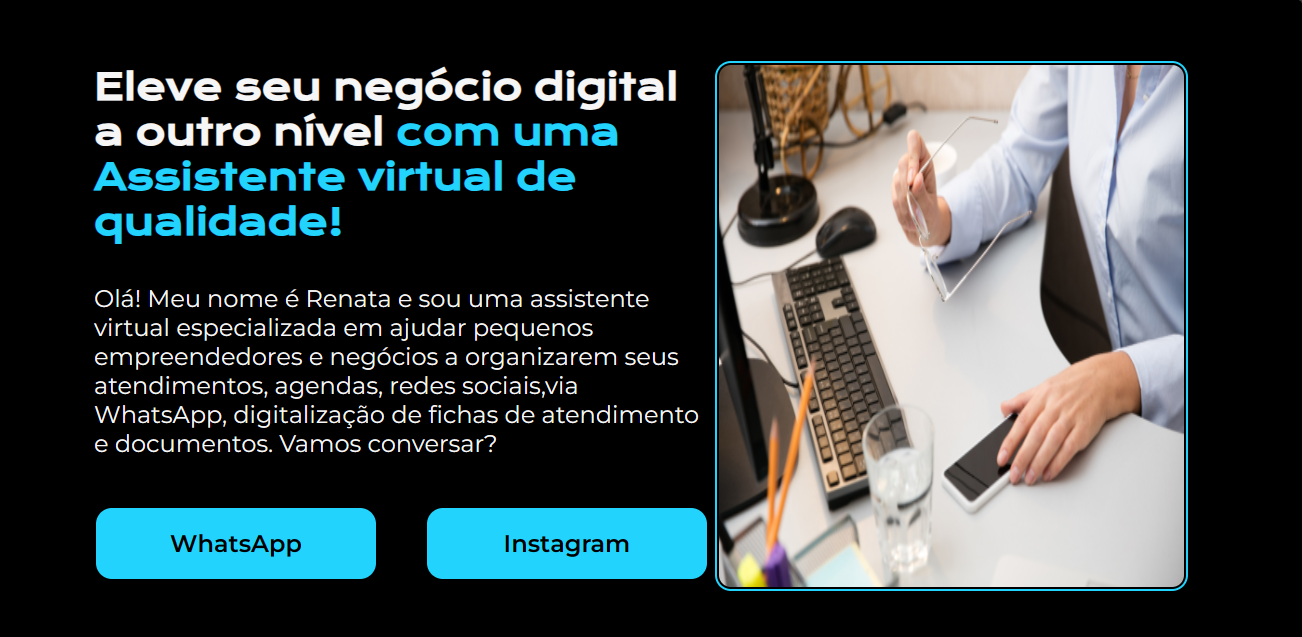
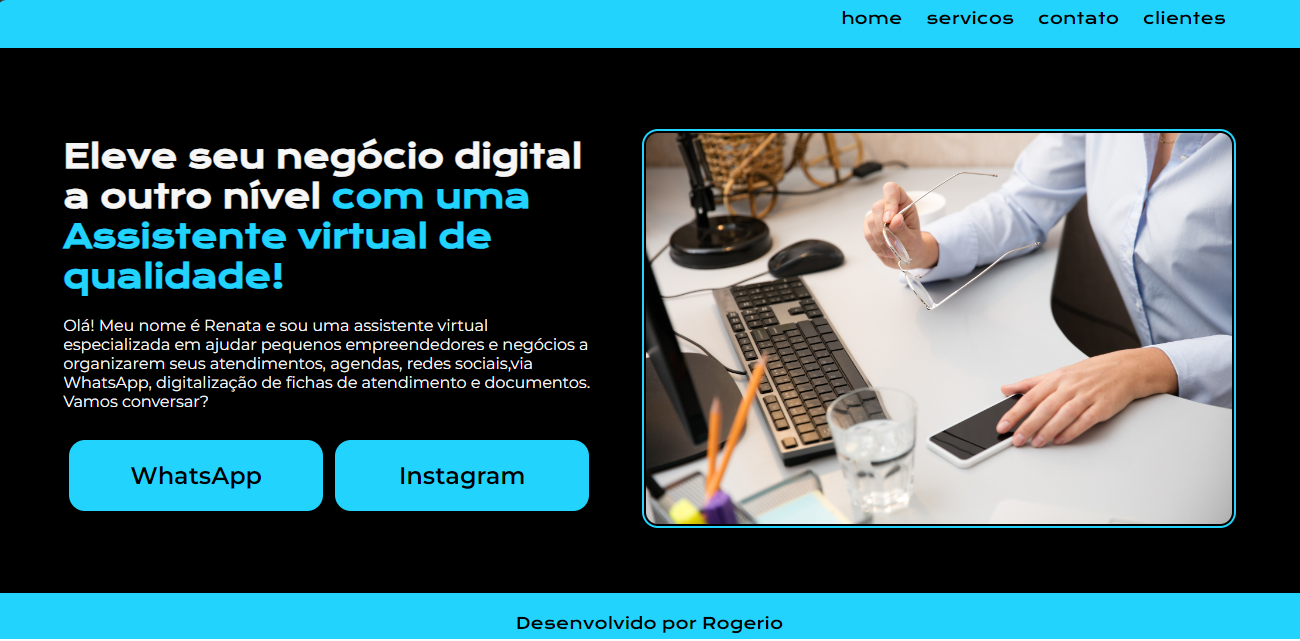
criado pagina contato e app.js

diff --git a/contato.html b/contato.html
@@ -17,13 +17,31 @@
             </nav>            
         </header>
 
-        <main>
+        <main class="apresentacao">
+            <section class="apresentacao_conteudo">
+                <h1 class="apresentacao_conteudo_titulo">
+                    Preencha os campos de contato                     
+                </h1>                
 
+                <form class="apresentacao_conteudo_formulario" action="mailto:virtualpersonalite@gmail.com" method="post" enctype="text/plain" >
+                    <input class="apresentacao_conteudo_formulario_input"  type="text" name="subject" value="Assunto do e-mail">                   
+                    <input class="apresentacao_conteudo_formulario_input"  type="text" name="nome" placeholder="Nome">
+                    <input class="apresentacao_conteudo_formulario_input"  type="email" name="email" placeholder="E-mail">
+                    <input class="apresentacao_conteudo_formulario_input"  type="text" name="body" value="Corpo do e-mail">                    
+                   
+                </form>
+
+                <div class="apresentacao_formulario_button">
+                    <button class="apresentacao_conteudo_formulario_button"  onclick="envio()">Enviar</button>                    
+                </div>
+            </section>    
+            <img class="apresentacao_foto"  src="assets/trabalho-remoto-em-casa-local-de-trabalho-em-home-office-com-pc-dispositivos-e-gadgets.jpg" alt="Foto mulher trabalhando no computador">        
         </main>
-
+        
         <footer class="footerpage">
             <p class="footerpageparagrafo">Desenvolvido por Rogerio</p>
-        </footer>         
+        </footer>
+        <script src="app.js" defer></script>        
         
     </body>
 </html>

diff --git a/styles/style.css b/styles/style.css
@@ -43,6 +43,7 @@ body {
 .cabecalho_navegacao { 
     width:100%;
     justify-content: center; 
+    margin-right: 5%;
     
 }
 
@@ -70,7 +71,8 @@ body {
     margin: 5% 5%;
 }
 
-.apresentacao_conteudo {         
+.apresentacao_conteudo {  
+    box-sizing: border-box;       
     width: 85%;   
     display: flex;      
     flex-direction: column;  
@@ -94,6 +96,29 @@ body {
     font-size: 1.0rem;
     font-family: "Montserrat", sans-serif;
 }
+
+
+.apresentacao_conteudo_formulario { 
+    width:85%;
+    height: 100%;
+    margin:5px;
+    padding: 20px;   
+    border-radius: 16px;
+    background-color: var(--secondary-color);    
+}
+
+.apresentacao_conteudo_formulario_input { 
+    width: 93%;
+    margin:2px;
+    padding: 8px;   
+    border-radius: 16px; 
+    cursor: pointer; 
+}
+
+.apresentacao_conteudo_formulario_input:hover { 
+    background-color: var(--color-hover);    
+}
+
 
 .apresentacao_links {  
 
@@ -119,6 +144,26 @@ a:hover {
     color: var(--terciary-color);
     font-family: "Montserrat", sans-serif; 
     gap:1rem;     
+}
+
+/* .apresentacao_formulario_button{
+    width: 100%;
+    justify-content: center;
+} */
+
+.apresentacao_conteudo_formulario_button { 
+    background-color: var(--secondary-color);  
+    width: 93%;  
+    text-align: center;    
+    border-radius: 16PX;
+    font-weight: 600;
+    font-size: 1.5rem;
+    margin: 4px ;
+    padding: 21px ;   
+    cursor: pointer; 
+    color: var(--terciary-color);
+    font-family: "Montserrat", sans-serif; 
+    gap:1rem;   
 }
 
 .footerpage {     

diff --git a/app.js b/app.js
@@ -1,0 +1,11 @@
+
+const envio=() => {   
+  const nome = document.querySelector('[name="nome"]').value;
+  const email = document.querySelector('[name="email"]').value;
+
+  console.log(nome);
+  console.log(email);
+
+  // Aqui você pode processar os dados (por exemplo, enviá-los por e-mail)
+  // ou fazer outras ações necessárias.  
+}

diff --git a/index.html b/index.html
@@ -39,6 +39,7 @@
         
         <footer class="footerpage">
             <p class="footerpageparagrafo">Desenvolvido por Rogerio</p>
-        </footer>    
+        </footer>  
+        
     </body>
 </html>
